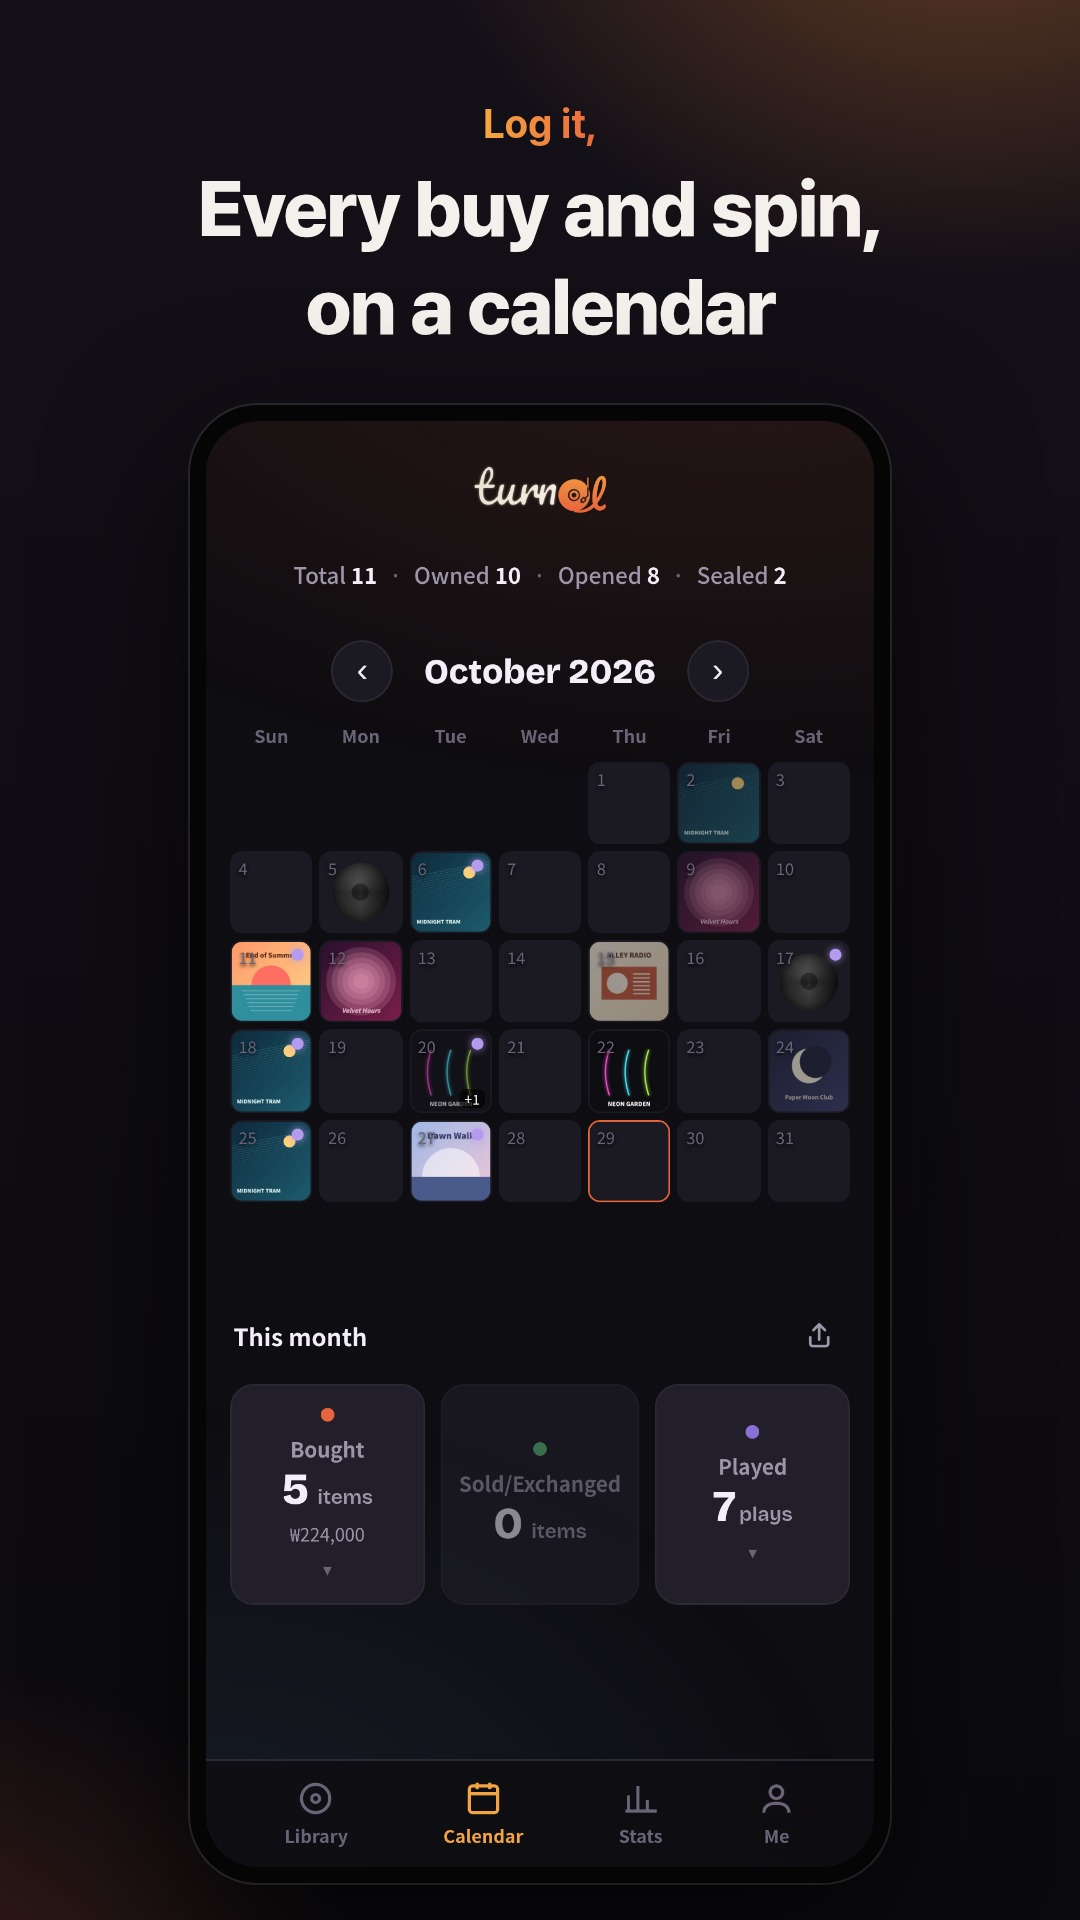
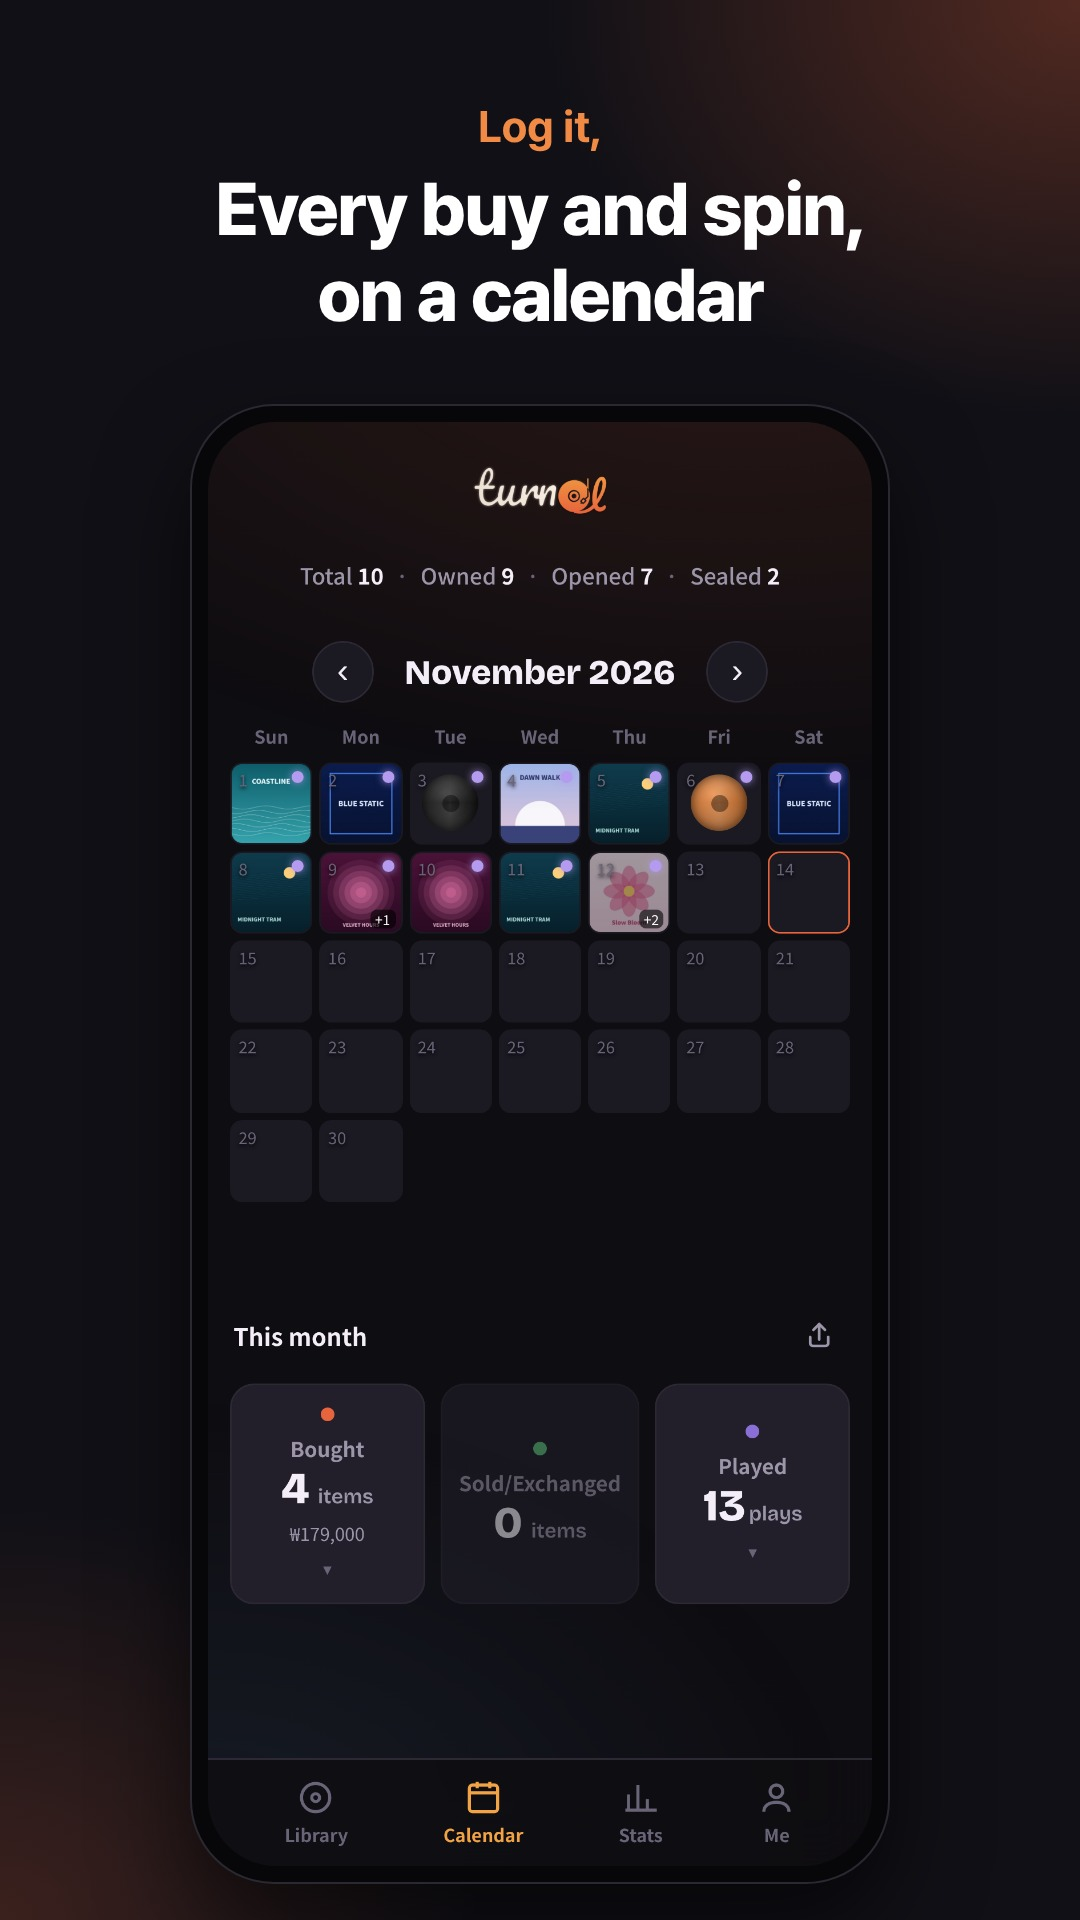
플레이스토어 스크린샷·그래픽 이미지를 현재 화면으로 다시 만들기
- store-assets/play: ko/en 1~7 (1080×1920), feature-ko/en (1024×500)
  1번은 턴테이블 화면(톤암·Now Playing), 나머지도 지금 버전 화면으로
- scripts/make-store-shots.mjs: 가상의 앨범·직접 그린 커버로 앱을 띄워 캡처 → 문구 합성 (재생성용)
- STORE.md: 만드는 방법, 앱스토어용은 아직 예전 화면임을 기록

Claude-Session: https://claude.ai/code/session_01RaKXDuWjQRYDcbkM1oTs7b

diff --git a/STORE.md b/STORE.md
@@ -27,7 +27,7 @@
 
 | # | 보조 문구 | 메인 문구 (한국어 / 영어) | 화면 |
 |---|---|---|---|
-| 1 | Turn it, | 돌리면, 음악이 흘러요 / Spin the disc, hear the music | 카드에서 꺼낸 디스크 + 회전 표시 |
+| 1 | Turn it, | 돌리면, 음악이 흘러요 / Spin the disc, hear the music | 턴테이블 화면(톤암·Now Playing) |
 | 2 | Keep it, | 모아온 바이닐을 한곳에 / Every record, one shelf | 보관함 |
 | 3 | Find it, | 검색 한 번이면 커버와 노래까지 / One search finds the cover and songs | 등록: 이 앨범이 맞나요? |
 | 4 | Match it, | 디스크 색까지 내 것 그대로 / Right down to your disc color | 등록: 디스크 컬러·투명도·RPM·인치 |
@@ -38,7 +38,8 @@
 그래픽 이미지: 보조 문구 **Turn it, hear it,** + 메인 문구 돌려 듣는 내 바이닐 보관함 / Your vinyl, ready to spin
 
 - 스크린샷 속 앨범은 모두 **가상의 앨범과 직접 그린 커버**입니다(실제 앨범 아트 저작권 문제 방지).
-- 다시 만들 때는 같은 데모 데이터로 앱을 띄워 캡처한 뒤 문구를 얹었습니다. 화면이 바뀌면 다시 만들어 주세요.
+- 플레이 스크린샷·그래픽 이미지는 `scripts/make-store-shots.mjs` 로 다시 만듭니다(같은 데모 데이터로 앱을 띄워 캡처한 뒤 문구를 얹음). 화면이 바뀌면 다시 돌려 주세요.
+- 앱스토어용(`store-assets/app-store/`)은 아직 예전 화면입니다. iOS 제출 전에 같은 방식으로 다시 만들어야 합니다.
 - 앱스토어는 6.7" 규격 한 벌이면 다른 아이폰 크기에도 자동으로 쓰입니다.
 
 ---
